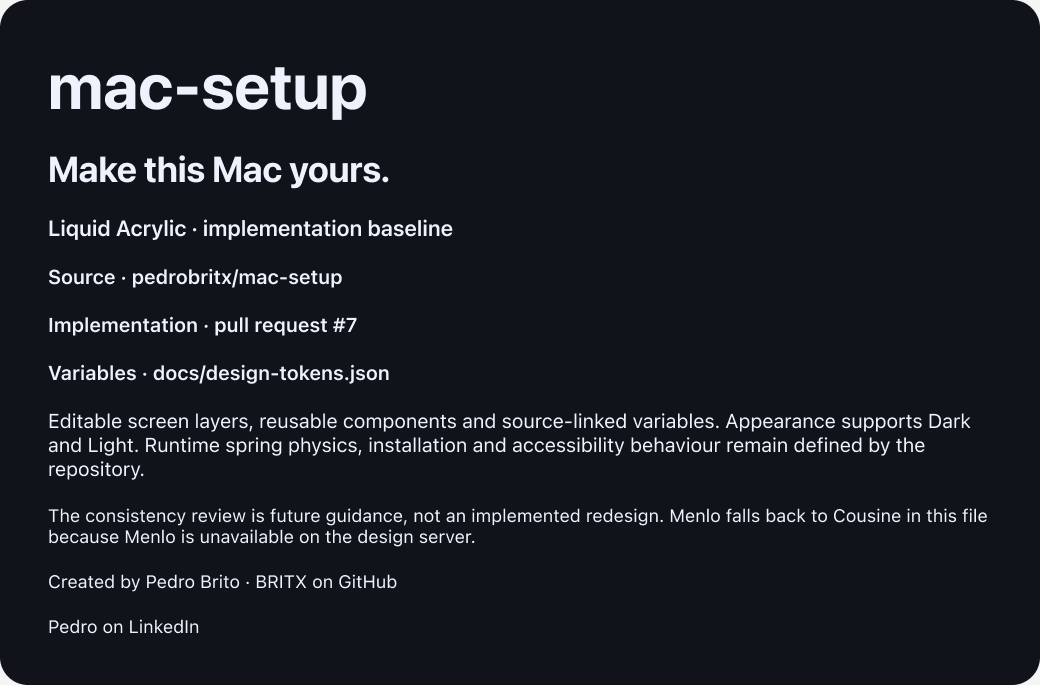
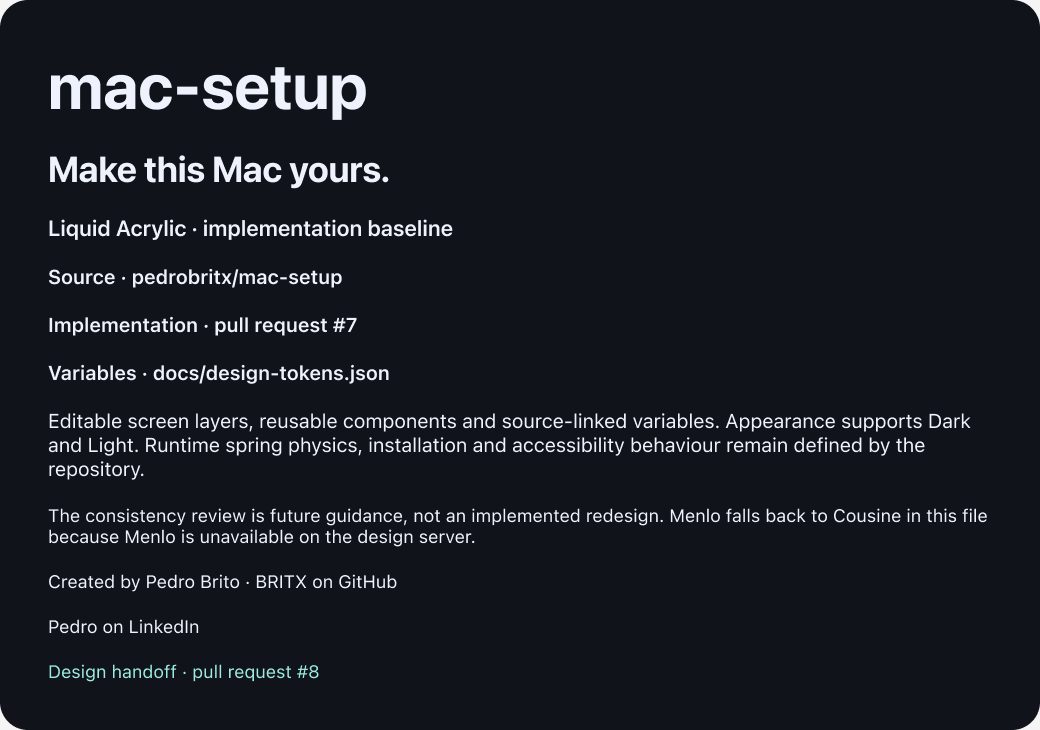
docs: link Figma cover to the design handoff pull request

Changed region(s): [[0.0308, 0.3066, 0.9538, 0.9504], [0.0308, 0.092, 0.3692, 0.1839], [0.0308, 0.2146, 0.3692, 0.2759]]

diff --git a/outputs/figma/README.md b/outputs/figma/README.md
@@ -5,6 +5,8 @@ in the **Projects** team. This file records the approved implementation from
 [mac-setup](https://github.com/pedrobritx/mac-setup), initially published in
 [PR #7](https://github.com/pedrobritx/mac-setup/pull/7). Its source baseline includes
 [the bounded spring-settling fix](https://github.com/pedrobritx/mac-setup/commit/5b9bc761d6e82aed23013805509762c3d2e682d3).
+The saved handoff and spring fix are published together in
+[PR #8](https://github.com/pedrobritx/mac-setup/pull/8).
 
 ## File structure
 
